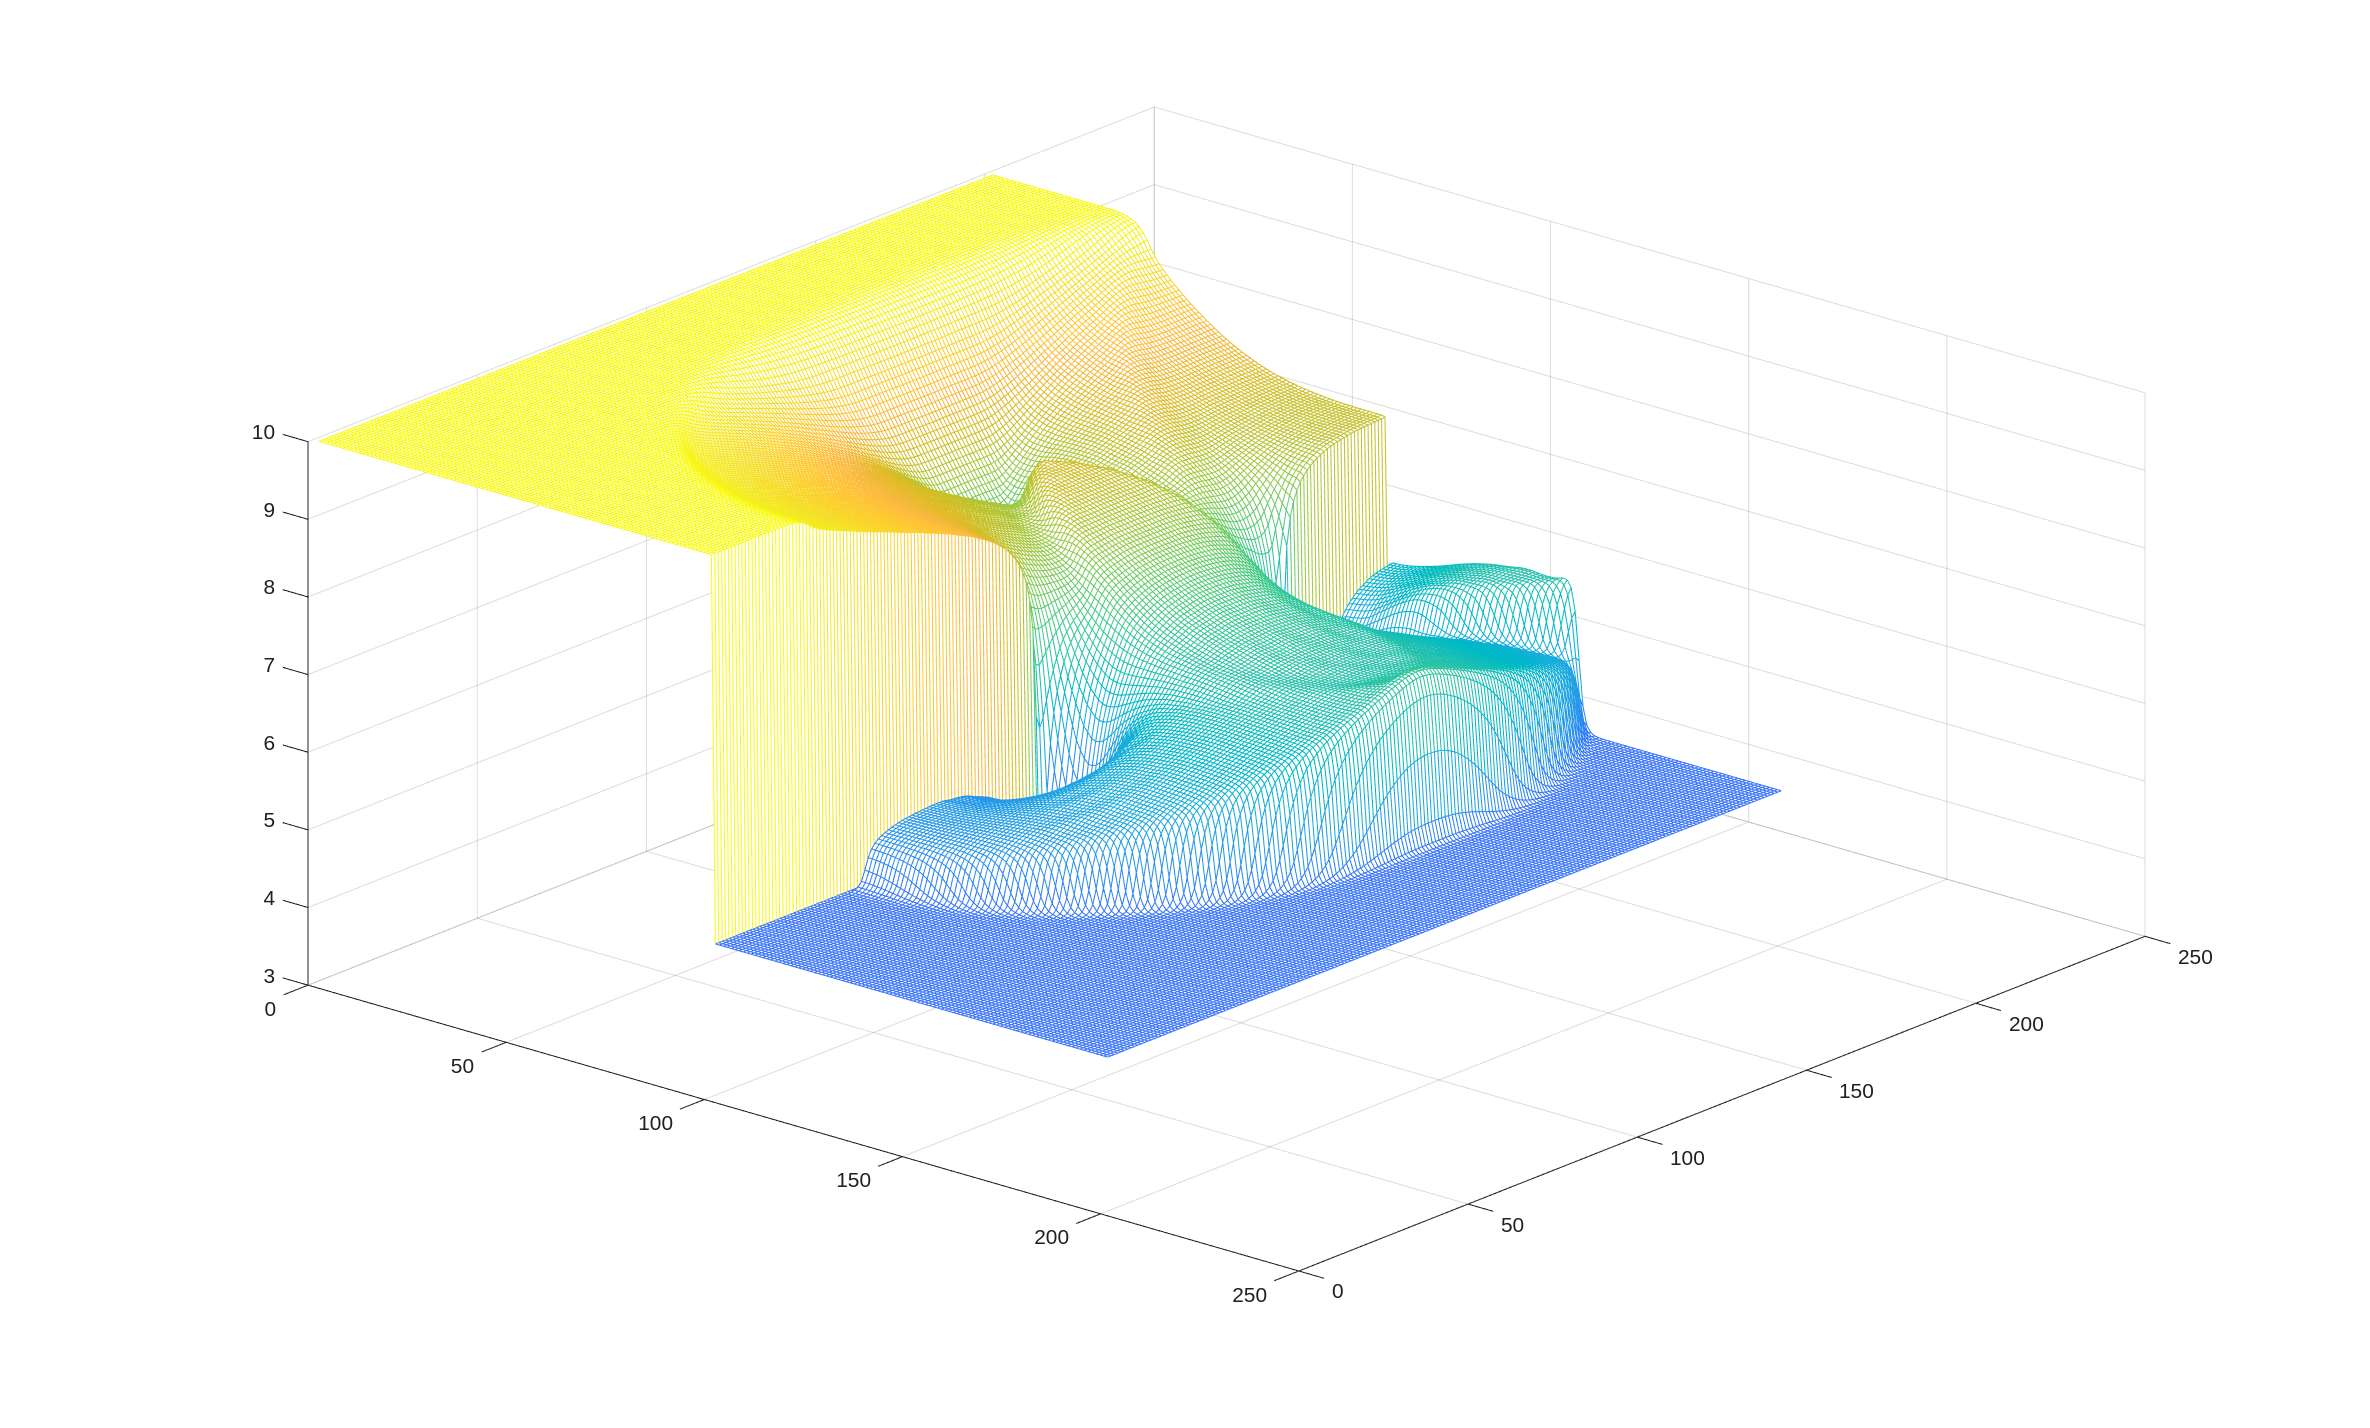
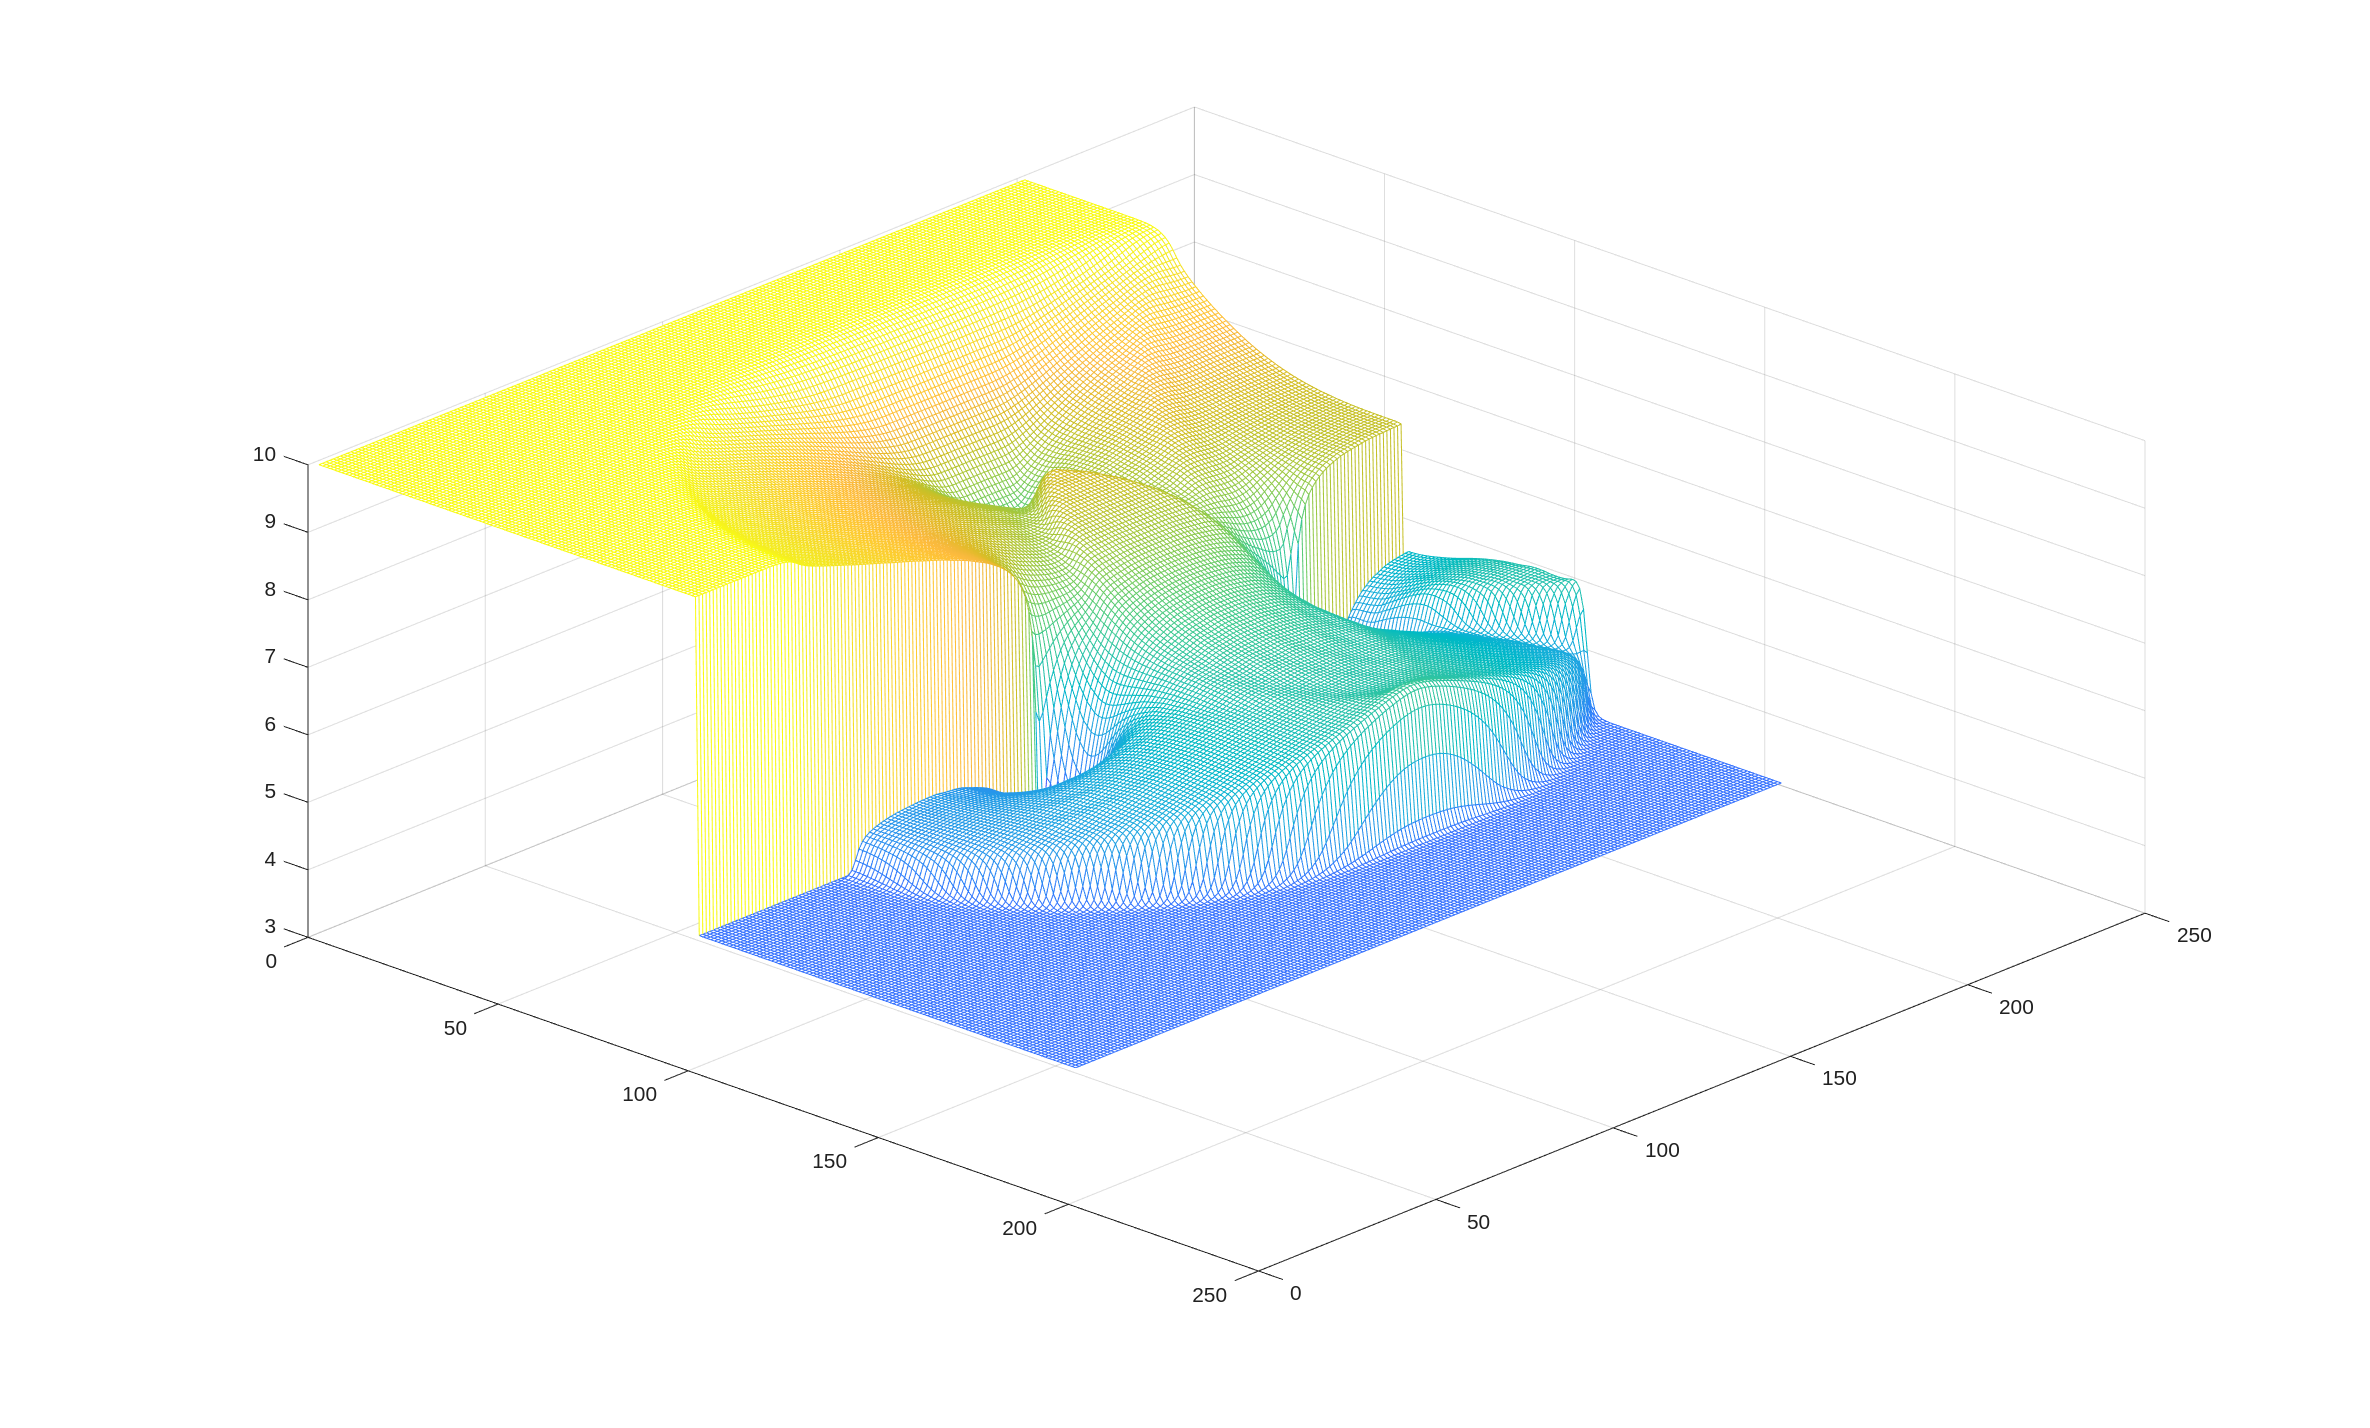
Using reduction to enchance the efficiency

diff --git a/2D-partial-Dambreak-HLL-OMP/main.c b/2D-partial-Dambreak-HLL-OMP/main.c
@@ -76,6 +76,7 @@ void Free_memory(float *u,float *v,float *s,float *mass_F,float *momentum_F_X,fl
 }*/
 
 void Calculation(float *u,float *v,float *s,float *mass_F,float *momentum_F_X,float *momentum_F_Y,float *mass_G,float *momentum_G_X,float *momentum_G_Y,float *mass,float *momentum_X,float *momentum_Y,float *h,float *mass_slope_X,float *momentum_slope_X_X,float *momentum_slope_X_Y,float *mass_slope_Y,float *momentum_slope_Y_X,float *momentum_slope_Y_Y){
+
 	for (int i = 0;i < NX+2;i++){
 		for (int j = 0;j < NY+2;j++){
 			int index = i*(NY+2)+j;
@@ -100,10 +101,19 @@ void Calculation(float *u,float *v,float *s,float *mass_F,float *momentum_F_X,fl
 		}
 	}
 	float time = 0;
-
+	float Smax_X;
+        float Smax_Y;
+	float DT;
+	int stop_flag = 0;
+	#pragma omp parallel
+	{
 	for (int timestep = 0; timestep < MAX_TIMESTEPS; timestep++){
-		float Smax_X = 0.0;
-		float Smax_Y = 0.0;
+		#pragma omp single
+		{
+			Smax_X = 0.0;
+			Smax_Y = 0.0;
+		}
+		#pragma omp for reduction(max:Smax_X, Smax_Y)
 		for (int i = 1;i < NX+1;i++){
 			for (int j = 1;j < NY+1;j++){
 				int index = i*(NY+2)+j;
@@ -117,6 +127,8 @@ void Calculation(float *u,float *v,float *s,float *mass_F,float *momentum_F_X,fl
         			}
 			}
 		}
+		#pragma omp master
+                {
 		float term_X = Smax_X / DX;
 		float term_Y = Smax_Y / DY;
 		float max_term;
@@ -126,15 +138,19 @@ void Calculation(float *u,float *v,float *s,float *mass_F,float *momentum_F_X,fl
     			max_term = term_Y;
 		}
 
-		float DT = CFL / max_term;
+		DT = CFL / max_term;
+		
 //		printf("%f\n",max_term);
 //		time = time + DT;
         	if (time > T_FINAL) {
             		//printf("Arrived at target time; stopping.\n");
+            		stop_flag = 1;
+  		} 
+		}
+		#pragma omp barrier
+		if (stop_flag == 1) {
             		break;
-  		} else {
-	            	//printf("Ran out of timesteps before reaching target time.\n");
-   		}
+        	}
 		#pragma omp for
 		for(int j = 0; j < NY+2; j++){
             		mass[0*(NY+2)+j] = mass[1*(NY+2)+j];
@@ -427,8 +443,12 @@ void Calculation(float *u,float *v,float *s,float *mass_F,float *momentum_F_X,fl
 				v[index] = momentum_Y[index]/mass[index];
 			}
 		}
+		#pragma omp master
+		{
 		time = time + DT;
-
+		}
+		#pragma omp barrier
+	}
 	}
 }
 int main() {
@@ -460,11 +480,10 @@ int main() {
 
     	double start_wtime = omp_get_wtime(); // 取得開始的精確秒數
 	omp_set_num_threads(8);
-    	#pragma omp parallel
-    	{
+
 	Calculation(u,v,s,mass_F,momentum_F_X,momentum_F_Y,mass_G,momentum_G_X,momentum_G_Y,mass,momentum_X,momentum_Y,h,
 	mass_slope_X,momentum_slope_X_X,momentum_slope_X_Y,mass_slope_Y,momentum_slope_Y_X,momentum_slope_Y_Y);
-	}
+	
 	double end_wtime = omp_get_wtime(); // 取得結束的精確秒數
 
     	time_t end_date;
